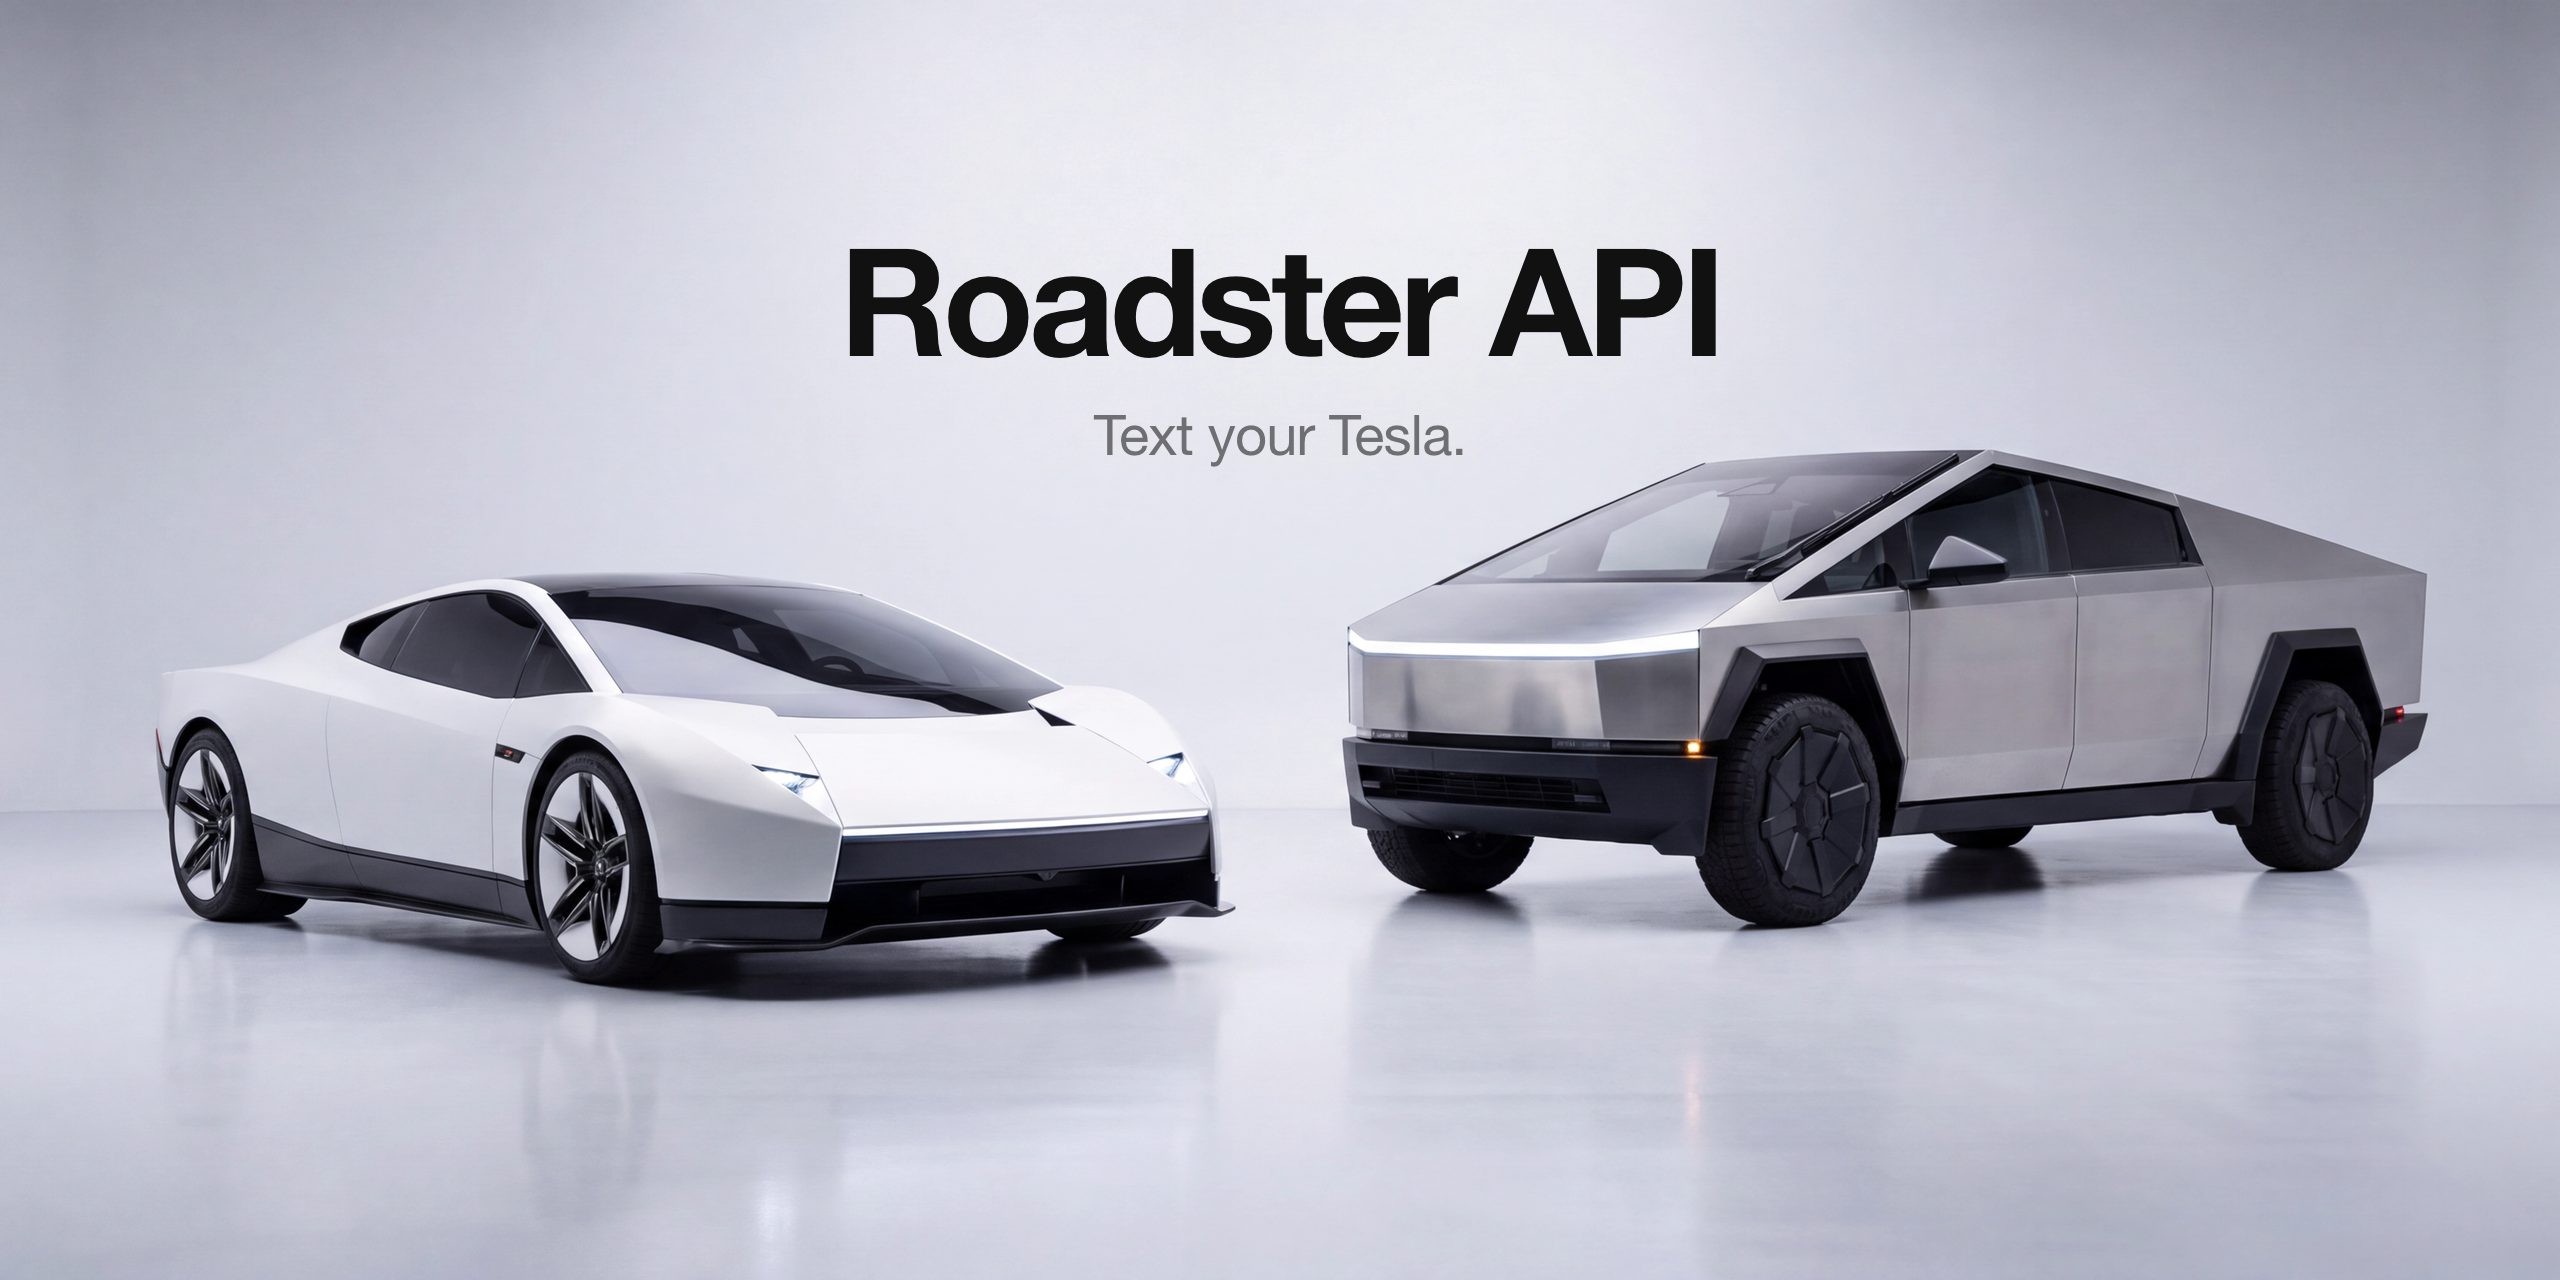
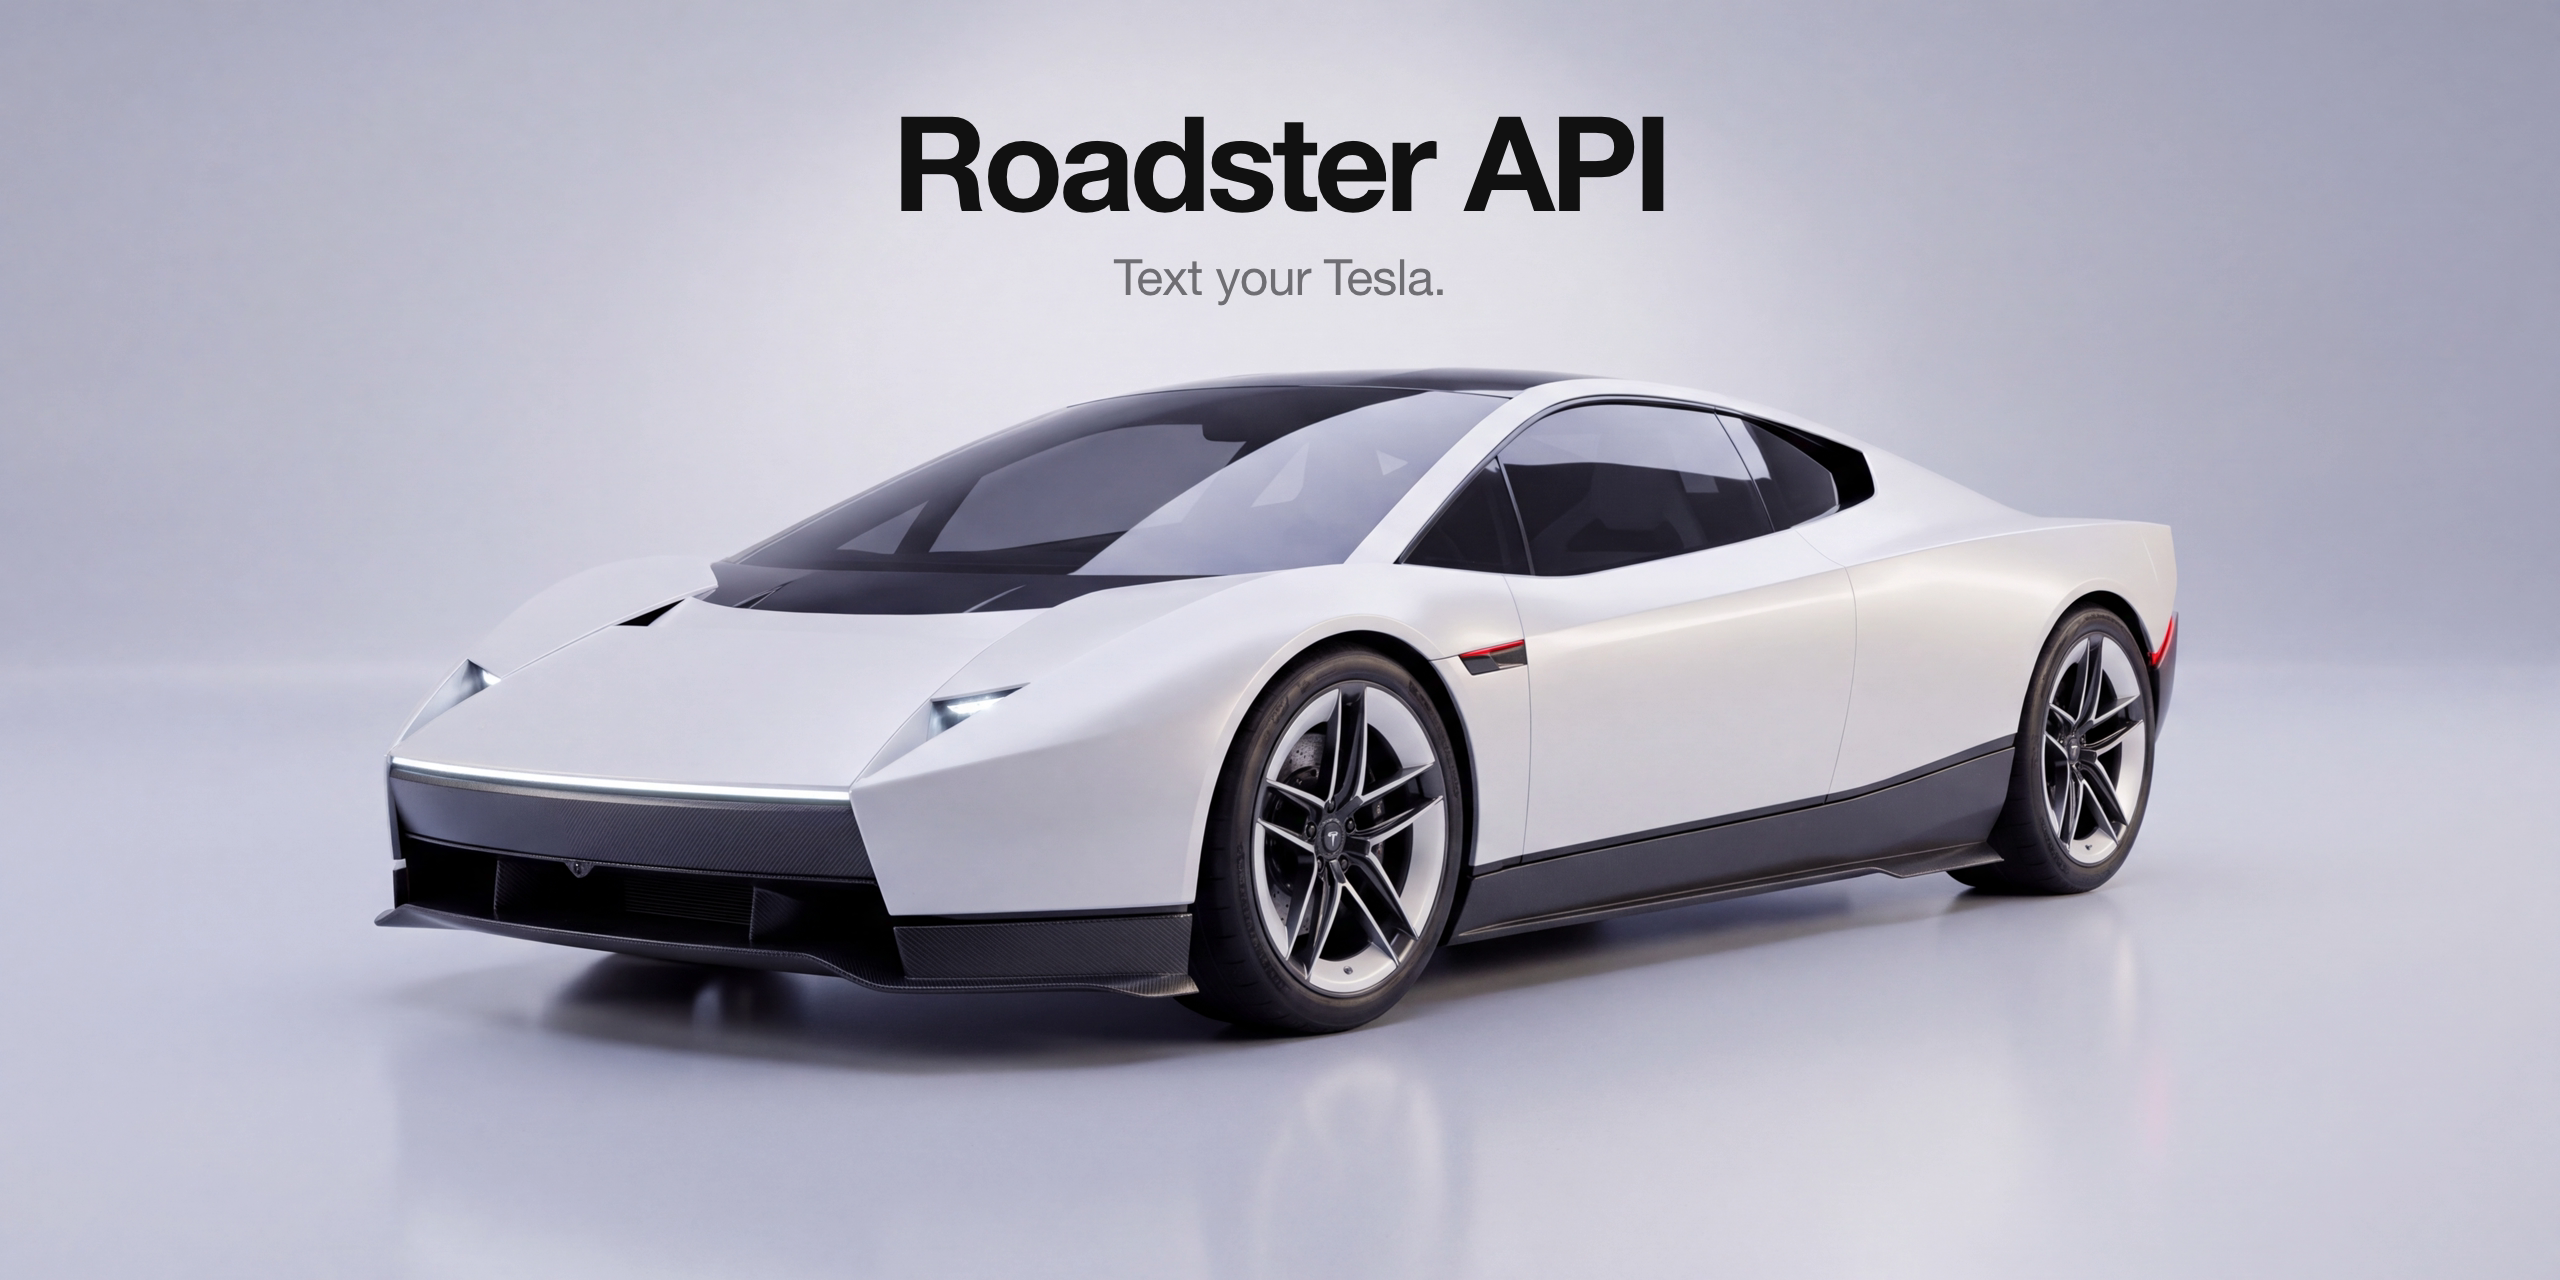
Remove the Cybertruck; Roadster-only hero

diff --git a/src/roadster/vehicles.ts b/src/roadster/vehicles.ts
@@ -1,40 +1,32 @@
 // Vehicle profiles: which Tesla is on the other end of the texts, decided from the VIN.
 //
 // The model is read from position 4 of the VIN. Tesla's current codes: S = Model S,
-// 3 = Model 3, X = Model X, Y = Model Y, C = Cybertruck. R is treated as "roadster": the
-// 2008 Roadster used it (WMI 5YJR), and the 2026 Roadster has no public VIN scheme yet, so
-// R is the best available guess until one is published. Anything else is "unknown", which
-// gets the generic profile — every live command, no flight rows.
-//
-// Only facts that are certain live here. Cybertruck-specific commands (tonneau cover,
-// Powershare) are deliberately absent: docs/FREETESSIE-RESEARCH.md confirms Tessie exposes
-// a tonneau command but not the exact Fleet API endpoint name behind it, so nothing is
-// claimed until that is verified against the Fleet API reference.
+// 3 = Model 3, X = Model X, Y = Model Y. R is treated as "roadster": the 2008 Roadster
+// used it (WMI 5YJR), and the 2026 Roadster has no public VIN scheme yet, so R is the best
+// available guess until one is published. Anything else is "unknown", which gets the
+// generic profile — every live command, no flight rows.
 
 import { MANIFEST, liveCommands, type ManifestEntry } from "./manifest.ts";
 
-export type VehicleModel = "model_s" | "model_3" | "model_x" | "model_y" | "cybertruck" | "roadster" | "unknown";
+export type VehicleModel = "model_s" | "model_3" | "model_x" | "model_y" | "roadster" | "unknown";
 
 export interface VehicleProfile {
   model: VehicleModel;
-  // How the assistant refers to the car ("Cybertruck", "Model Y").
+  // How the assistant refers to the car ("Model Y", "Roadster").
   name: string;
   seats: number;
-  // Open cargo bed (Cybertruck) rather than a trunk.
-  bed: boolean;
   // Flight commands exist in the manifest for this model (Roadster only, all awaiting_fleet_api).
   flight: boolean;
 }
 
 const PROFILES: Record<VehicleModel, VehicleProfile> = {
-  model_s: { model: "model_s", name: "Model S", seats: 5, bed: false, flight: false },
-  model_3: { model: "model_3", name: "Model 3", seats: 5, bed: false, flight: false },
-  model_x: { model: "model_x", name: "Model X", seats: 7, bed: false, flight: false },
-  model_y: { model: "model_y", name: "Model Y", seats: 5, bed: false, flight: false },
-  cybertruck: { model: "cybertruck", name: "Cybertruck", seats: 5, bed: true, flight: false },
+  model_s: { model: "model_s", name: "Model S", seats: 5, flight: false },
+  model_3: { model: "model_3", name: "Model 3", seats: 5, flight: false },
+  model_x: { model: "model_x", name: "Model X", seats: 7, flight: false },
+  model_y: { model: "model_y", name: "Model Y", seats: 5, flight: false },
   // Seats: the Rocket variant has one, Performance and Thrust have two; two is the common case.
-  roadster: { model: "roadster", name: "Roadster", seats: 2, bed: false, flight: true },
-  unknown: { model: "unknown", name: "Tesla", seats: 5, bed: false, flight: false },
+  roadster: { model: "roadster", name: "Roadster", seats: 2, flight: true },
+  unknown: { model: "unknown", name: "Tesla", seats: 5, flight: false },
 };
 
 const VIN_MODEL_CODES: Record<string, VehicleModel> = {
@@ -42,7 +34,6 @@ const VIN_MODEL_CODES: Record<string, VehicleModel> = {
   "3": "model_3",
   X: "model_x",
   Y: "model_y",
-  C: "cybertruck",
   R: "roadster",
 };
 
@@ -60,7 +51,7 @@ export function profileFromVin(vin: string | undefined | null): VehicleProfile {
 }
 
 // Every live manifest row applies to every model. The awaiting_fleet_api flight rows are
-// listed only for the Roadster, so a Cybertruck owner is never offered "land".
+// listed only for the Roadster, so a Model Y owner is never offered "land".
 export function commandsFor(model: VehicleModel): ManifestEntry[] {
   return profile(model).flight ? MANIFEST : liveCommands();
 }

diff --git a/test/roadster/vehicles.test.ts b/test/roadster/vehicles.test.ts
@@ -4,34 +4,32 @@ import { awaiting, liveCommands } from "../../src/roadster/manifest.ts";
 import { commandsFor, modelFromVin, profile, profileFromVin } from "../../src/roadster/vehicles.ts";
 
 test("modelFromVin reads the model code at position 4", () => {
-  assert.equal(modelFromVin("7G2CEHED8RA000001"), "cybertruck");
   assert.equal(modelFromVin("7SAYGDEE0PF000001"), "model_y");
   assert.equal(modelFromVin("5YJ3E1EA0KF000001"), "model_3");
   assert.equal(modelFromVin("5YJSA1E26GF000001"), "model_s");
   assert.equal(modelFromVin("7SAXCBE55PF000001"), "model_x");
   assert.equal(modelFromVin("5YJRE11B081000001"), "roadster");
+  assert.equal(modelFromVin("7G2CEHED8RA000001"), "unknown", "model codes outside the list are unknown");
   assert.equal(modelFromVin("TEST000000000VIN"), "unknown");
   assert.equal(modelFromVin(""), "unknown");
   assert.equal(modelFromVin(undefined), "unknown");
-  assert.equal(modelFromVin("7g2cehed8ra000001"), "cybertruck", "case-insensitive");
+  assert.equal(modelFromVin("7saygdee0pf000001"), "model_y", "case-insensitive");
 });
 
-test("profiles: Cybertruck has a bed and no flight; Roadster flies (awaiting); unknown is generic", () => {
-  const ct = profileFromVin("7G2CEHED8RA000001");
-  assert.equal(ct.name, "Cybertruck");
-  assert.equal(ct.bed, true);
-  assert.equal(ct.flight, false);
+test("profiles: Model Y has no flight; Roadster flies (awaiting); unknown is generic", () => {
+  const my = profileFromVin("7SAYGDEE0PF000001");
+  assert.equal(my.name, "Model Y");
+  assert.equal(my.flight, false);
   assert.equal(profile("roadster").flight, true);
-  assert.equal(profile("roadster").bed, false);
   assert.equal(profile("unknown").name, "Tesla");
-  assert.equal(profile("model_y").flight, false);
+  assert.equal(profile("model_3").flight, false);
 });
 
-test("commandsFor: Cybertruck gets every live row and no flight rows; Roadster gets the four awaiting rows too", () => {
-  const ct = commandsFor("cybertruck");
-  assert.equal(ct.length, liveCommands().length);
-  assert.ok(ct.every((e) => e.status === "live"));
-  assert.ok(!ct.some((e) => e.name === "land"));
+test("commandsFor: Model Y gets every live row and no flight rows; Roadster gets the four awaiting rows too", () => {
+  const my = commandsFor("model_y");
+  assert.equal(my.length, liveCommands().length);
+  assert.ok(my.every((e) => e.status === "live"));
+  assert.ok(!my.some((e) => e.name === "land"));
 
   const rd = commandsFor("roadster");
   assert.equal(rd.length, liveCommands().length + awaiting().length);

diff --git a/test/agent/vehicle.test.ts b/test/agent/vehicle.test.ts
@@ -1,4 +1,4 @@
-// The vehicle profile reaches the system prompt: a Cybertruck is named as such and is
+// The vehicle profile reaches the system prompt: a Model Y is named as such and is
 // never offered the Roadster's flight commands; the default stays the Roadster.
 
 import assert from "node:assert/strict";
@@ -9,18 +9,17 @@ import { fakeAdapter, fakeScheduler, scriptedClient } from "./helpers.ts";
 
 const endTurn = (text: string) => ({ stop_reason: "end_turn" as const, content: [{ type: "text" as const, text }] });
 
-test("a Cybertruck's system prompt names the Cybertruck and offers no flight commands", async () => {
+test("a Model Y's system prompt names the Model Y and offers no flight commands", async () => {
   __resetPendingPinsForTests();
   const client = scriptedClient([endTurn("Hi.")]);
   const db = new DatabaseSync(":memory:");
   try {
     await handleInbound(
-      { client, adapter: fakeAdapter(), scheduler: fakeScheduler(), db, userPinHash: hashPin("4471"), vehicleModel: "cybertruck" },
+      { client, adapter: fakeAdapter(), scheduler: fakeScheduler(), db, userPinHash: hashPin("4471"), vehicleModel: "model_y" },
       { channel: "telegram", chatId: "v1", text: "hi" },
     );
     const system = client.calls[0].system;
-    assert.match(system, /Tesla Cybertruck/);
-    assert.match(system, /cargo bed/);
+    assert.match(system, /Tesla Model Y/);
     assert.match(system, /no flight commands/);
     assert.doesNotMatch(system, /\bland, hover, jump, thrust_mode\b/);
     assert.doesNotMatch(system, /call roadster_flight/);

diff --git a/src/agent/agent.ts b/src/agent/agent.ts
@@ -46,8 +46,8 @@ function systemPrompt(now: Date, ownerTimeZone: string, model: VehicleModel): st
     .join(", ");
   // The vehicle line names the actual car behind the VIN. The flight paragraph is only
   // offered when the manifest has flight rows for this model (the Roadster), so a
-  // Cybertruck owner is never told "land" is a command they have.
-  const vehicleLine = `The car is a Tesla ${car.name}${car.bed ? " (it has an open cargo bed rather than a rear trunk)" : ""}.`;
+  // Model Y owner is never told "land" is a command they have.
+  const vehicleLine = `The car is a Tesla ${car.name}.`;
   const flightPara = car.flight
     ? `The Roadster's flight commands (${flightList}) are in the manifest as awaiting_fleet_api: Tesla has not published an endpoint for any of them. For any request to fly, hover, land, jump, take off, or use the thrusters, call roadster_flight and relay its answer — never substitute a different tool for a flight request.`
     : `This car has no flight commands. If asked to fly, hover, or use thrusters, say plainly that a ${car.name} cannot do that and offer the commands you do have.`;

diff --git a/src/index.ts b/src/index.ts
@@ -97,7 +97,7 @@ async function main(): Promise<void> {
   //   - FAKE_TESSIE=1 (no FLEET_MODE): the existing FakeTessieServer path, unchanged.
   //   - neither: the real api.tessie.com, unchanged.
   let adapter: VehicleAdapter;
-  // The VIN picks the vehicle profile the agent is told about (Cybertruck, Model Y, ...).
+  // The VIN picks the vehicle profile the agent is told about (Model Y, Roadster, ...).
   let vin = "";
   let fakeServerStop: (() => Promise<void>) | undefined;
   let freetessie: FreeTessie | undefined;

diff --git a/README.md b/README.md
@@ -1,10 +1,10 @@
 <p align="center"><img src="docs/hero-title.png" width="900" alt="Roadster API — Text your Tesla"></p>
 
-<p align="center">A self-hosted API key for your Tesla, and an assistant you text.<br>Roadster, Cybertruck, S, 3, X, Y.</p>
+<p align="center">A self-hosted API key for your Tesla, and an assistant you text.<br>Roadster, S, 3, X, Y.</p>
 
-<p align="center"><img src="docs/hero.png" width="900" alt="The Roadster and the Cybertruck side by side on a pale studio field"></p>
+<p align="center"><img src="docs/hero.png" width="900" alt="The Roadster on a pale studio field"></p>
 
-"warm it up." "where are you." "charge to 80." "pop the tailgate."
+"warm it up." "where are you." "charge to 80." "fly the kids to school."
 It runs on Tesla's official Fleet API with nothing plugged into the car.
 Your own Tesla developer app is the key. This repo is the rest.
 
@@ -21,7 +21,6 @@ Your own Tesla developer app is the key. This repo is the rest.
 | Model | Text it | Flight |
 |---|---|---|
 | Roadster | every command below | `land`, `hover`, `jump`, `thrust_mode` in the manifest, awaiting Tesla's endpoint |
-| Cybertruck | every command below; it has a bed, so "trunk" is the tailgate side | no |
 | Model S · 3 · X · Y | every command below | no |
 
 - Official Fleet API only. No diag port, no jailbreak, no third-party cloud.
@@ -30,11 +29,7 @@ Your own Tesla developer app is the key. This repo is the rest.
 - One allow-listed chat. A PIN for unlock, trunk and frunk.
 - `freetessie` speaks the same REST paths as developer.tessie.com, so anything built for Tessie points here unchanged.
 
-### Cybertruck
-
-The VIN picks the profile. Position 4 is the model code, `C` is the Cybertruck, and [`src/roadster/vehicles.ts`](src/roadster/vehicles.ts) turns that into what the assistant is told: "The car is a Tesla Cybertruck, it has an open cargo bed."
-Every live command is the same as on any other Tesla. Flight commands are never offered; ask a Cybertruck to hover and it says plainly that it can't.
-Tonneau and Powershare commands are not in the manifest yet. Tessie exposes a tonneau command, but the exact Fleet API endpoint behind it is unverified, so nothing is claimed until it is.
+The VIN picks the profile. Position 4 is the model code, and [`src/roadster/vehicles.ts`](src/roadster/vehicles.ts) turns that into what the assistant is told. Every live command is the same on every model. Flight commands are only offered on a Roadster; ask a Model Y to hover and it says plainly that it can't.
 
 ## The Roadster
 
